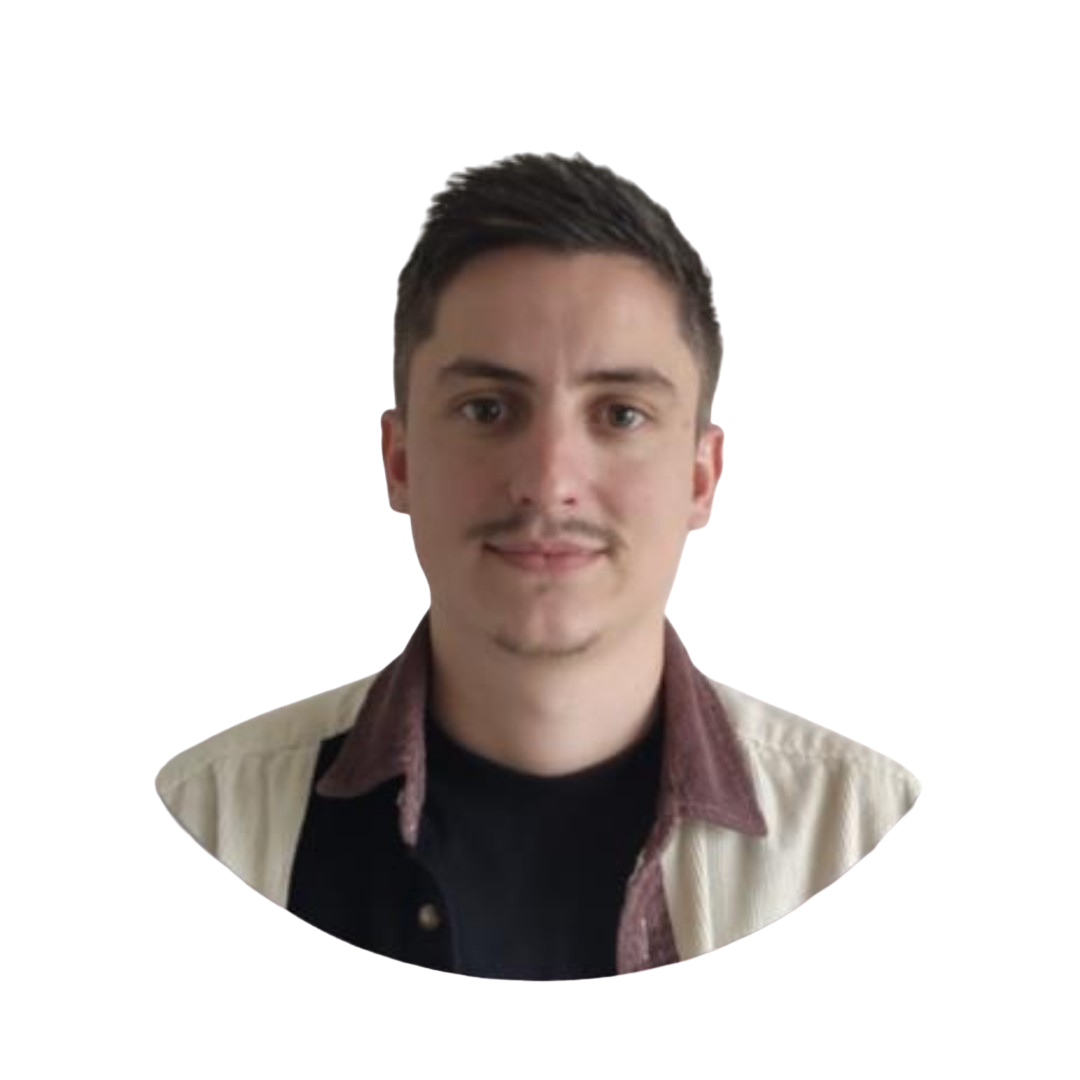
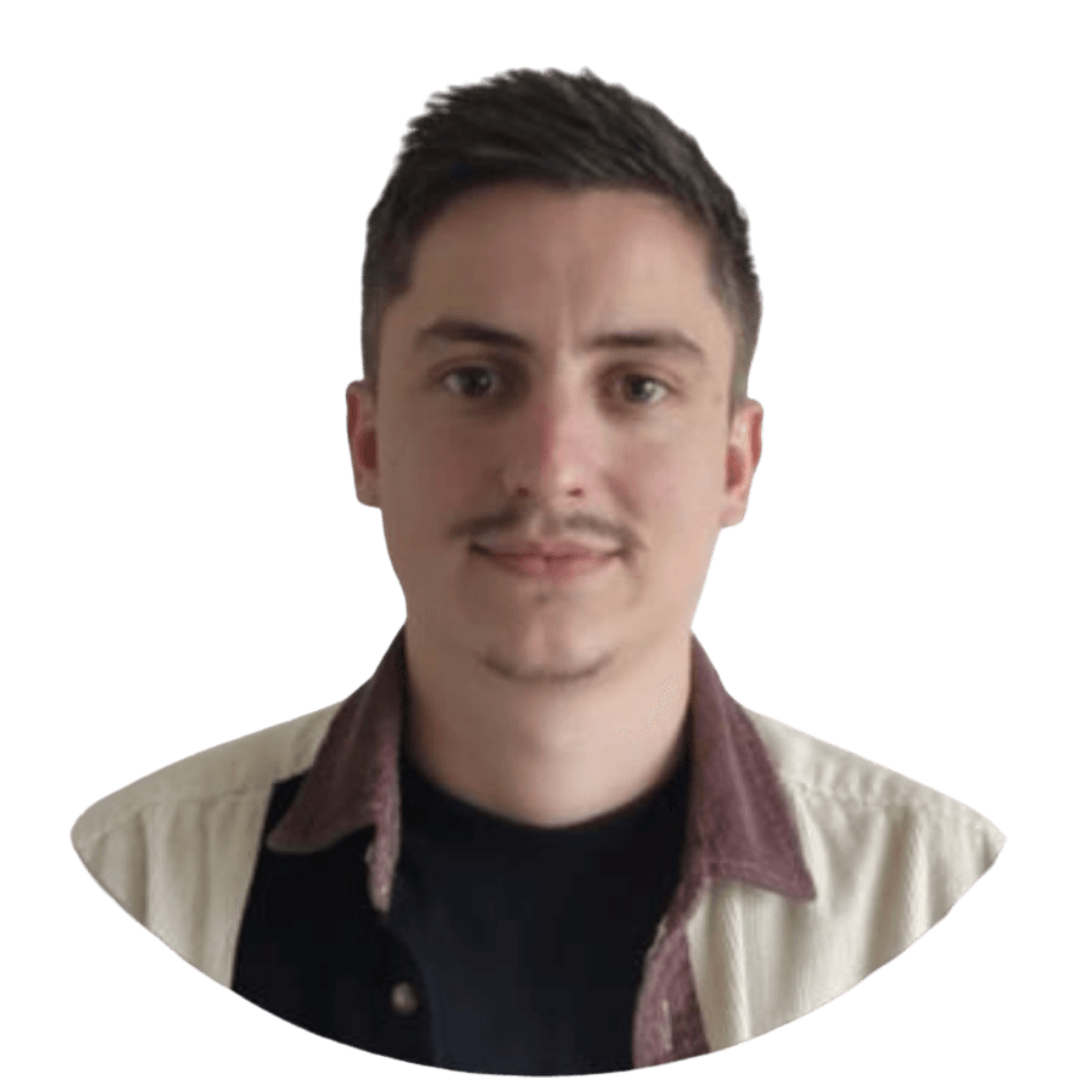
Debug photo border + padding section

Changed region(s): [[0.0611, 0.0611, 0.9472, 1.0]]

diff --git a/app/projets/page.tsx b/app/projets/page.tsx
@@ -37,7 +37,7 @@ const projects = [
       },
     ],
     image: "/assets/projets/GSB_APP.png",
-    github: "",
+    github: "https://github.com/NicolasPons/AP1_GSB",
     live: "",
   },
   {
@@ -64,7 +64,7 @@ const projects = [
       },
     ],
     image: "/assets/projets/GSB_APP.png",
-    github: "",
+    github: "https://github.com/NicolasPons/AP2-MedManager",
     live: "",
   },
   {
@@ -119,11 +119,13 @@ export default function Projets() {
                 {project.num}
               </div>
               {/* Projet Category */}
-              <h2 className="text-[42px] font-bold leading-none text-white group-hover:text-accent transition-all duration-500 capitalize">
-                {" "}
-                {project.category}
+              <h2 className="text-[36px] font-bold leading-none text-white group-hover:text-accent transition-all duration-500 capitalize mb-10000">
+                {project.title}
               </h2>
-              <p className="text-white/60">{project.description}</p>
+              <h3 className="text-[16px] mt-0">
+                {project.category}
+              </h3>
+              <p className="text-white/60 text-[14px]">{project.description}</p>
               <ul className=" flex gap-4">
                 {project.stack.map((item, index) => {
                   return (

diff --git a/app/contact/page.tsx b/app/contact/page.tsx
@@ -5,7 +5,6 @@ import { Input } from "@/components/ui/input";
 import { Textarea } from "@/components/ui/textarea";
 
 import { Phone, Mail, MapPin } from "lucide-react";
-import { motion } from "framer-motion";
 
 const info = [
   {
@@ -27,14 +26,7 @@ const info = [
 
 export default function Contact() {
   return (
-    <motion.section
-      initial={{ opacity: 0 }}
-      animate={{
-        opacity: 1,
-        transition: { delay: 0.4, duration: 0.4, ease: "easeIn" },
-      }}
-      className="py-6"
-    >
+
       <div className="container mx-auto">
         <div className="flex flex-col xl:flex-row gap-[30px] ">
           <div className="xl:w-[54%] order-2 xl:order-none">
@@ -79,6 +71,5 @@ export default function Contact() {
           </div>
         </div>
       </div>
-    </motion.section>
   );
 }

diff --git a/components/Photo.tsx b/components/Photo.tsx
@@ -12,7 +12,7 @@ export default function Photo() {
                     quality={100} 
                     fill 
                     alt="Photo" 
-                    className="object-contain rounded-full border-[1px] border-accent"
+                    className="object-contain rounded-full border-[2px] border-accent"
                 />
             </div>
         </div>

diff --git a/app/globals.css b/app/globals.css
@@ -32,7 +32,6 @@ html {
 
 section {
   padding-top: 100px; /* Éviter le chevauchement avec la nav */
-  scroll-margin-top: 100px; /* Corrige le défilement ancré */
   min-height: 100vh; /* Facultatif : pour que chaque section occupe l'écran */
 }
 
